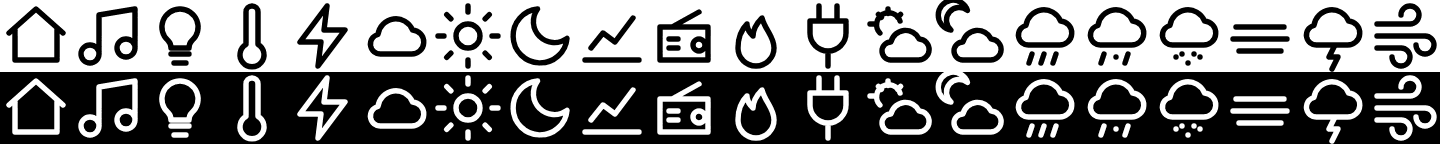
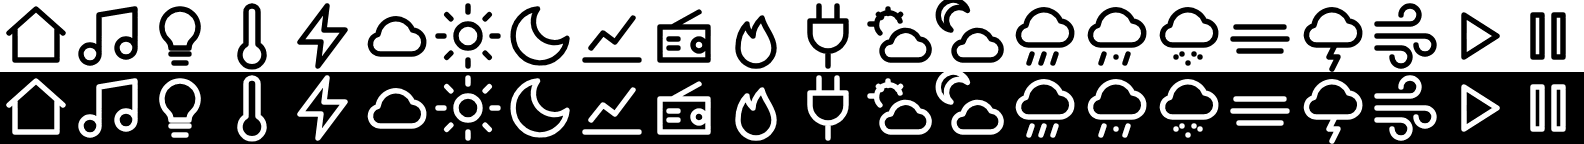
kindle: music tab, scene state and in-place updates
Speakers get play, pause and volume. Scenes show the state they report.
Presses change only what differs, and the page is sized for the real panel.

diff --git a/web/kindle.js b/web/kindle.js
@@ -1,0 +1,60 @@
+// Presses a control without loading a new page, then changes only what differs,
+// so the e-ink panel need not redraw the whole screen. Without this file the forms still work.
+(function () {
+  if (!window.XMLHttpRequest || !document.implementation || !document.implementation.createHTMLDocument) { return; }
+  var busy = false;
+
+  function sync(now, next) {
+    var i, a;
+    if (now.nodeType !== next.nodeType || now.nodeName !== next.nodeName) {
+      now.parentNode.replaceChild(document.importNode(next, true), now);
+    } else if (now.nodeType === 3) {
+      if (now.nodeValue !== next.nodeValue) { now.nodeValue = next.nodeValue; }
+    } else if (now.nodeType === 1) {
+      for (i = now.attributes.length - 1; i >= 0; i--) {
+        if (!next.hasAttribute(now.attributes[i].name)) { now.removeAttribute(now.attributes[i].name); }
+      }
+      for (i = 0; i < next.attributes.length; i++) {
+        a = next.attributes[i];
+        if (now.getAttribute(a.name) !== a.value) { now.setAttribute(a.name, a.value); }
+      }
+      if (now.childNodes.length !== next.childNodes.length) {
+        now.innerHTML = next.innerHTML;
+      } else {
+        for (i = 0; i < now.childNodes.length; i++) { sync(now.childNodes[i], next.childNodes[i]); }
+      }
+    }
+  }
+
+  function show(html) {
+    var body = /<body[^>]*>([\s\S]*)<\/body>/.exec(html), doc = document.implementation.createHTMLDocument('');
+    if (!body) { return false; }
+    doc.body.innerHTML = body[1];
+    // Signed out: the answer is the pairing page.
+    if (!doc.body.querySelector('.head')) { return false; }
+    sync(document.body, doc.body);
+    return true;
+  }
+
+  document.addEventListener('submit', function (ev) {
+    var form = ev.target, xhr = new XMLHttpRequest(), fields = [], i, f;
+    ev.preventDefault();
+    if (busy) { return; }
+    busy = true;
+    for (i = 0; i < form.elements.length; i++) {
+      f = form.elements[i];
+      if (f.name) { fields.push(encodeURIComponent(f.name) + '=' + encodeURIComponent(f.value)); }
+    }
+    xhr.open('POST', form.getAttribute('action'), true);
+    xhr.setRequestHeader('Content-Type', 'application/x-www-form-urlencoded');
+    xhr.onreadystatechange = function () {
+      var shown = false;
+      if (xhr.readyState !== 4) { return; }
+      busy = false;
+      try { shown = xhr.status === 200 && show(xhr.responseText); } catch (e) { shown = false; }
+      // Reloading is a plain GET, so it can never press the control a second time.
+      if (!shown) { window.location.reload(); }
+    };
+    xhr.send(fields.join('&'));
+  }, false);
+}());

diff --git a/src/kindle.rs b/src/kindle.rs
@@ -34,6 +34,8 @@ struct Item {
     class: String,
     /// `None` for a scene, which has no state to show.
     on: Option<bool>,
+    /// Pressing runs it, even when it reports a state it cannot be switched to.
+    runs: bool,
     /// A live value beside the state. Left out of the fingerprint, or a drifting reading would void every tap.
     detail: Option<String>,
 }
@@ -52,6 +54,17 @@ fn detail(e: &Entity, on: Option<bool>) -> Option<String> {
     number(e, "dim").filter(|_| on == Some(true)).map(|d| format!("{:.0} %", d * 100.0))
 }
 
+/// What a control shows and whether pressing runs it. A Homey group can report
+/// "on" when any of its lights is, while only its button can be pressed.
+fn control(e: &Entity) -> Option<(Option<bool>, bool)> {
+    let onoff = e.capabilities.get("onoff");
+    if onoff.is_some_and(|c| c.settable) {
+        return Some((onoff.map(|c| c.value == json!(true)), false));
+    }
+    e.capabilities.get("button").filter(|c| c.settable)?;
+    Some((onoff.map(|c| c.value == json!(true)), true))
+}
+
 fn items(app: &App, device: &Device) -> Vec<Item> {
     let pages = device.pages.iter().flat_map(|p| p.items.iter()).filter(|i| !i.starts_with("card:"));
     let mut seen = std::collections::HashSet::new();
@@ -60,12 +73,8 @@ fn items(app: &App, device: &Device) -> Vec<Item> {
         if !CONTROLLABLE.contains(&e.class.as_str()) {
             return None;
         }
-        let on = match (e.capabilities.get("onoff"), e.capabilities.get("button")) {
-            (Some(c), _) if c.settable => Some(c.value == json!(true)),
-            (_, Some(c)) if c.settable => None,
-            _ => return None,
-        };
-        Some(Item { id: id.clone(), name: device.names.get(id).unwrap_or(&e.name).clone(), class: e.class.clone(), on, detail: detail(&e, on) })
+        let (on, runs) = control(&e)?;
+        Some(Item { id: id.clone(), name: device.names.get(id).unwrap_or(&e.name).clone(), class: e.class.clone(), on, runs, detail: detail(&e, on) })
     }).collect()
 }
 
@@ -184,7 +193,7 @@ fn temperatures(app: &App, device: &Device) -> (Option<String>, Option<String>) 
 }
 
 fn press_item(app: &App, item: &Item) -> Result<(), String> {
-    let (capability, value) = item.on.map_or(("button", json!(true)), |on| ("onoff", json!(!on)));
+    let (capability, value) = if item.runs { ("button", json!(true)) } else { ("onoff", json!(item.on != Some(true))) };
     app.registry.set(&item.id, capability, &value)
 }
 
@@ -192,7 +201,7 @@ fn press_item(app: &App, item: &Item) -> Result<(), String> {
 
 const SCREEN_COOKIE: &str = "oldpad_kindle";
 const PAIR_COOKIE: &str = "oldpad_kindle_pair";
-const PAGE_CSP: &str = "default-src 'none'; style-src 'self'; img-src 'self'; form-action 'self'; frame-ancestors 'none'; base-uri 'none'";
+const PAGE_CSP: &str = "default-src 'none'; style-src 'self'; img-src 'self'; script-src 'self'; connect-src 'self'; form-action 'self'; frame-ancestors 'none'; base-uri 'none'";
 /// Long enough to see a change, rare enough to spare a reader's battery.
 const PAGE_REFRESH: u32 = 300;
 const PAIR_REFRESH: u32 = 5;
@@ -202,13 +211,15 @@ const PAGE_BUTTONS: usize = COLUMNS * 4;
 const MAX_BOXES: usize = COLUMNS * 2;
 // Tables, not flex or grid: the Kindle's browser is an old WebKit.
 const MENU_COLUMNS: usize = 6;
+// A Paperwhite lays out at its full 1072 px, and its browser counts some height it hides, hence the zoom and the menu lifted 28 px.
 /// One picture, so a page costs the reader's Wi-Fi one request: a black row, then a white one for what is on.
 const ICON_SHEET: &[u8] = include_bytes!("../web/kindle-icons.png");
 /// In the order they stand in the sheet. Drawn at twice the size they are shown, for the sharper panel.
-const ICONS: [&str; 20] = ["home", "music", "bulb", "thermo", "bolt", "cloud", "sun", "moon", "chart", "radio", "flame", "plug", "partly", "moonpartly", "rain", "sleet", "snow", "fog", "thunder", "wind"];
+const ICONS: [&str; 22] = ["home", "music", "bulb", "thermo", "bolt", "cloud", "sun", "moon", "chart", "radio", "flame", "plug", "partly", "moonpartly", "rain", "sleet", "snow", "fog", "thunder", "wind", "play", "pause"];
 const ICON_SIZE: usize = 36;
+const PAGE_JS: &str = include_str!("../web/kindle.js");
 const CSS: &str = "html{height:100%}body{height:100%;margin:0;padding:12px 14px;-webkit-box-sizing:border-box;box-sizing:border-box;background:#fff;color:#000;font-family:sans-serif;font-size:20px;line-height:1.2}\
-.shell{position:relative;min-height:100%;-webkit-box-sizing:border-box;box-sizing:border-box}.r1{padding-bottom:84px}.r2{padding-bottom:158px}.r3{padding-bottom:232px}\
+.shell{position:relative;min-height:100%;-webkit-box-sizing:border-box;box-sizing:border-box}.r1{padding-bottom:112px}.r2{padding-bottom:186px}.r3{padding-bottom:260px}\
 h1{font-size:34px;line-height:40px;margin:0}p{margin:8px 6px}form{margin:0}\
 table{width:100%;border-collapse:separate;border-spacing:6px;table-layout:fixed}td{padding:0;vertical-align:top}\
 .head{border-spacing:0;border-bottom:3px solid #000;margin-bottom:6px;padding:0 6px 6px}.head td{vertical-align:middle}.pager{width:190px;text-align:right;font-size:18px;white-space:nowrap}\
@@ -220,10 +231,14 @@ table{width:100%;border-collapse:separate;border-spacing:6px;table-layout:fixed}
 button{display:block;width:100%;height:104px;padding:6px 10px;border:2px solid #000;-webkit-border-radius:10px;border-radius:10px;-webkit-appearance:none;background:#fff;color:#000;font-family:sans-serif;text-align:left;overflow:hidden}\
 button.on{background:#000;color:#fff}button .ic{float:left}button span{float:right;font-size:15px;line-height:36px;white-space:nowrap}\
 button b{display:block;clear:both;max-height:44px;overflow:hidden;font-size:18px;line-height:22px;word-wrap:break-word}\
-.menu{position:absolute;left:0;right:0;bottom:0;display:table;table-layout:fixed;width:100%;border-top:2px solid #000;border-spacing:4px;background:#fff}.menu div{display:table-row}\
+.menu{position:absolute;left:0;right:0;bottom:28px;display:table;table-layout:fixed;width:100%;border-top:2px solid #000;border-spacing:4px;background:#fff}.menu div{display:table-row}\
 .menu a{display:table-cell;height:62px;vertical-align:middle;padding:0 2px;-webkit-border-radius:10px;border-radius:10px;color:#000;font-size:15px;font-weight:bold;text-align:center;text-decoration:none;overflow:hidden;word-wrap:break-word}\
 .menu a.on{background:#000;color:#fff}.menu .ic{display:block;margin:0 auto 1px}\
+@media (min-width:1000px){body{zoom:1.2}}\
 @media (orientation:landscape){.shell{padding-bottom:0}.menu{position:static;float:left;display:block;width:112px;border-top:0;border-right:2px solid #000;padding-right:6px}.menu div{display:block}.menu a{display:block;height:auto;padding:6px 2px;margin-bottom:4px}.main{margin-left:130px}}\
+.spk{height:146px;padding:10px 12px;border:2px solid #000;-webkit-border-radius:10px;border-radius:10px;overflow:hidden}.spk.on{background:#000;color:#fff}\
+.spk small{display:block;font-size:17px;line-height:22px;white-space:nowrap;overflow:hidden}.spk b{display:block;height:28px;font-size:22px;line-height:28px;white-space:nowrap;overflow:hidden}.spk>span{display:block;height:20px;font-size:15px;line-height:20px;white-space:nowrap;overflow:hidden}\
+.ctl{margin-top:8px;border-spacing:4px 0}.ctl td{vertical-align:middle}.ctl button{height:64px;padding:0;text-align:center;font-size:30px;font-weight:bold}.ctl button .ic{float:none;display:block;margin:0 auto}.spk.on button{background:#000;color:#fff;border-color:#fff}.vol{text-align:center;font-size:19px;font-weight:bold}\
 .notice{border:2px solid #000;border-left-width:10px;padding:8px 12px}.empty{padding:48px 12px;text-align:center}\
 .center{max-width:560px;margin:0 auto;padding-top:24px;text-align:center}.center h1{margin-bottom:8px}.qr{display:block;width:400px;max-width:100%;margin:16px auto}\
 .pin{margin:12px 0 4px}.code{display:inline-block;margin:0;padding:6px 20px;border:2px solid #000;-webkit-border-radius:10px;border-radius:10px;font-size:52px;font-weight:bold;letter-spacing:6px}\
@@ -240,10 +255,12 @@ pub fn route(app: &App, req: &Request, s: &[&str]) -> Response {
     match (req.method.as_str(), s) {
         ("GET", ["kindle"]) => show(app, req),
         ("GET", ["kindle", "style.css"]) => Response::new(200, "text/css; charset=utf-8", stylesheet()).header("Cache-Control", "no-cache"),
+        ("GET", ["kindle", "app.js"]) => Response::new(200, "text/javascript; charset=utf-8", PAGE_JS).header("Cache-Control", "no-cache"),
         ("GET", ["kindle", "icons.png"]) => Response::new(200, "image/png", ICON_SHEET).header("Cache-Control", "public, max-age=86400"),
         ("GET", ["kindle", "qr", file]) => pairing_qr(app, req, file),
         ("POST", ["kindle", "pair"]) => start_pairing(app),
         ("POST", ["kindle", "press"]) => press(app, req),
+        ("POST", ["kindle", "speaker"]) => speaker_action(app, req),
         _ => Response::error(404, "Not found"),
     }
 }
@@ -398,10 +415,10 @@ fn view_items(app: &App, device: &Device, view: &str) -> Vec<Item> {
 
 /// The tablet's pages that work without a live connection, then the admin's own. Empty ones stay out.
 fn menu(app: &App, device: &Device, nb: bool) -> Vec<(String, String, String)> {
-    let built_in = [("home", "Hjem", "Home", "home"), ("lights", "Lys", "Lights", "bulb"), ("climate", "Klima", "Climate", "thermo"), ("flows", "Scener", "Scenes", "bolt"), ("weather", "Vær", "Weather", "cloud")];
+    let built_in = [("home", "Hjem", "Home", "home"), ("music", "Musikk", "Music", "music"), ("lights", "Lys", "Lights", "bulb"), ("climate", "Klima", "Climate", "thermo"), ("flows", "Scener", "Scenes", "bolt"), ("weather", "Vær", "Weather", "cloud")];
     let fixed = built_in.iter().map(|(id, no, en, ic)| (id.to_string(), if nb { no } else { en }.to_string(), ic.to_string()));
     let own = device.pages.iter().enumerate().map(|(i, p)| (format!("p{i}"), p.name.clone(), p.icon.clone()));
-    fixed.chain(own).filter(|(id, ..)| id == "home" || !view_items(app, device, id).is_empty() || !info_boxes(app, device, id, nb).is_empty()).collect()
+    fixed.chain(own).filter(|(id, ..)| id == "home" || (id == "music" && !speakers(app, device).is_empty()) || !view_items(app, device, id).is_empty() || !info_boxes(app, device, id, nb).is_empty()).collect()
 }
 
 fn menu_html(entries: &[(String, String, String)], view: &str) -> String {
@@ -441,7 +458,9 @@ fn dashboard(app: &App, req: &Request, device: &Device, nb: bool) -> Response {
     if let Some(n) = notice {
         body += &format!("<p class=\"notice\">{n}</p>");
     }
-    if shown.is_empty() && view != "weather" {
+    if view == "music" {
+        body += &grid(speakers(app, device).iter().map(|e| speaker_card(app, device, e, &token, nb)).collect(), 2, "speakers");
+    } else if shown.is_empty() && view != "weather" {
         body += if nb { "<p class=\"empty\">Ingen knapper er valgt for denne skjermen.</p>" } else { "<p class=\"empty\">No controls are set up for this screen.</p>" };
     }
     body += &grid(shown.iter().enumerate().map(|(i, item)| {
@@ -463,6 +482,7 @@ fn dashboard(app: &App, req: &Request, device: &Device, nb: bool) -> Response {
     }).collect(), COLUMNS, "buttons");
     let rows = entries.len().div_ceil(entries.len().div_ceil(3).max(MENU_COLUMNS));
     let body = if entries.len() > 1 { format!("<div class=\"shell r{rows}\">{}<div class=\"main\">{body}</div></div>", menu_html(&entries, view)) } else { body };
+    let body = format!("{body}<script src=\"/kindle/app.js\"></script>");
     html(&device.name, PAGE_REFRESH, &escape_xml(&link(view, page)), &body)
 }
 
@@ -629,6 +649,71 @@ fn info_boxes(app: &App, device: &Device, view: &str, nb: bool) -> Vec<Info> {
     // Home keeps its buttons on the first screen; a page of its own can spend more.
     boxes.truncate(if view == "home" { MAX_BOXES } else { MAX_BOXES * 2 });
     boxes
+}
+
+/// The screen's speakers, its music panel first, as on the tablet.
+fn speakers(app: &App, device: &Device) -> Vec<Entity> {
+    let pages = device.pages.iter().flat_map(|p| p.items.iter());
+    let mut seen = std::collections::HashSet::new();
+    device.panels.speaker.iter().chain(device.tiles.iter()).chain(device.more.iter()).chain(pages)
+        .filter(|id| seen.insert(id.as_str()))
+        .filter_map(|id| app.registry.entity(id))
+        .filter(|e| e.class == "speaker" && e.capabilities.get("speaker_playing").is_some_and(|c| c.settable))
+        .collect()
+}
+
+/// What a group plays comes from its leader, which need not be on this screen.
+fn speaker_lead(app: &App, e: &Entity) -> Entity {
+    let group = e.capabilities.get("speaker_group").and_then(|c| c.value.as_str());
+    let id = group.and_then(|g| e.id.split_once(':').map(|(integration, _)| format!("{integration}:{g}")));
+    id.and_then(|id| app.registry.entity(&id)).unwrap_or_else(|| e.clone())
+}
+
+fn speaker_card(app: &App, device: &Device, e: &Entity, token: &str, nb: bool) -> String {
+    let lead = speaker_lead(app, e);
+    let text = |c: &str| lead.capabilities.get(c).and_then(|c| c.value.as_str()).filter(|s| !s.is_empty()).map(escape_xml);
+    let playing = lead.capabilities.get("speaker_playing").is_some_and(|c| c.value == json!(true));
+    let control = |action: &str, label: &str, inner: &str| format!(
+        "<td><form method=\"post\" action=\"/kindle/speaker\"><input type=\"hidden\" name=\"token\" value=\"{token}\"><input type=\"hidden\" name=\"id\" value=\"{}\"><input type=\"hidden\" name=\"action\" value=\"{action}\"><button type=\"submit\" aria-label=\"{label}\">{inner}</button></form></td>",
+        escape_xml(&e.id)
+    );
+    let mut controls = if playing { control("pause", "Pause", &icon("pause")) } else { control("play", if nb { "Spill" } else { "Play" }, &icon("play")) };
+    if let Some(v) = number(e, "volume_set").filter(|_| e.capabilities["volume_set"].settable) {
+        controls += &control("down", if nb { "Lavere volum" } else { "Volume down" }, "&minus;");
+        controls += &format!("<td class=\"vol\">{:.0} %</td>", v * 100.0);
+        controls += &control("up", if nb { "Høyere volum" } else { "Volume up" }, "+");
+    }
+    format!(
+        "<div class=\"spk{}\"><small>{}</small><b>{}</b><span>{}</span><table class=\"ctl\"><tr>{controls}</tr></table></div>",
+        if playing { " on" } else { "" },
+        escape_xml(device.names.get(&e.id).unwrap_or(&e.name)),
+        text("speaker_track").unwrap_or_else(|| if nb { "Ingenting spilles" } else { "Nothing playing" }.to_string()),
+        text("speaker_artist").unwrap_or_default(),
+    )
+}
+
+/// Volume moves from its live value, and play and pause say which they mean, so an old page cannot do the opposite.
+fn speaker_action(app: &App, req: &Request) -> Response {
+    const VOLUME_STEP: f64 = 0.05;
+    let Some(device) = screen_device(app, req) else { return redirect("/kindle") };
+    let form = parse_query(std::str::from_utf8(&req.body).unwrap_or(""));
+    let field = |k: &str| form.get(k).map_or("", String::as_str);
+    if !constant_eq(field("token"), &form_token(&device)) {
+        return Response::error(403, "Bad form token");
+    }
+    let back = link("music", 0);
+    let Some(e) = speakers(app, &device).into_iter().find(|e| e.id == field("id")) else {
+        return redirect(&format!("{back}&notice=stale"));
+    };
+    let volume = |step: f64| number(&e, "volume_set").map(|v| ((v + step).clamp(0.0, 1.0) * 100.0).round() / 100.0).ok_or("no volume".to_string());
+    let done = match field("action") {
+        "play" => app.registry.set(&e.id, "speaker_playing", &json!(true)),
+        "pause" => app.registry.set(&e.id, "speaker_playing", &json!(false)),
+        "down" => volume(-VOLUME_STEP).and_then(|v| app.registry.set(&e.id, "volume_set", &json!(v))),
+        "up" => volume(VOLUME_STEP).and_then(|v| app.registry.set(&e.id, "volume_set", &json!(v))),
+        _ => return Response::error(400, "Unknown action"),
+    };
+    redirect(&if done.is_ok() { back } else { format!("{back}&notice=failed") })
 }
 
 fn press(app: &App, req: &Request) -> Response {
@@ -882,7 +967,7 @@ mod tests {
     use super::*;
 
     fn item(id: &str, on: Option<bool>) -> Item {
-        Item { id: id.into(), name: id.into(), class: "light".into(), on, detail: None }
+        Item { id: id.into(), name: id.into(), class: "light".into(), on, runs: on.is_none(), detail: None }
     }
 
     #[test]
@@ -941,6 +1026,17 @@ mod tests {
         assert_eq!(weather_icon("clearsky_night"), "moon");
         assert_eq!(weather_icon("lightsleetshowers_day"), "sleet");
         assert_eq!(weather_icon("heavyrainandthunder"), "thunder");
+    }
+
+    #[test]
+    fn a_group_shows_its_state_and_is_run() {
+        use crate::integrations::Capability;
+        let entity = |caps: Vec<(&str, Capability)>| Entity { id: "x".into(), name: "x".into(), zone: "z".into(), class: "button".into(), capabilities: caps.into_iter().map(|(k, c)| (k.to_string(), c)).collect() };
+        let (on, off, press) = (Capability::new(json!(true), false), Capability::new(json!(false), true), Capability::new(Value::Null, true));
+        assert_eq!(control(&entity(vec![("onoff", on.clone()), ("button", press.clone())])), Some((Some(true), true)), "read-only state, run by its button");
+        assert_eq!(control(&entity(vec![("onoff", off.clone()), ("button", press.clone())])), Some((Some(false), false)), "a real switch is switched");
+        assert_eq!(control(&entity(vec![("button", press)])), Some((None, true)));
+        assert_eq!(control(&entity(vec![("onoff", on)])), None, "nothing to press");
     }
 
     #[test]

diff --git a/src/e2e.rs b/src/e2e.rs
@@ -205,7 +205,7 @@ fn phone_and_tablet_end_to_end() {
     let (s, kindle_device) = phone.call("POST", &format!("/api/admin/pair/{kindle_code}"), Some(json!({ "name": "Kindle", "pin": kindle_pin })));
     assert_eq!(s, 200);
     let kindle_id = kindle_device["id"].as_str().unwrap().to_string();
-    assert_eq!(phone.call("PUT", &format!("/api/admin/devices/{kindle_id}"), Some(json!({ "tiles": [lamp, heater], "more": [plug], "panels": { "outdoor": outdoor }, "pages": [{ "id": "p1", "name": "Evening", "icon": "moon", "items": [night] }] }))).0, 200);
+    assert_eq!(phone.call("PUT", &format!("/api/admin/devices/{kindle_id}"), Some(json!({ "tiles": [lamp, heater], "more": [plug, speaker], "panels": { "outdoor": outdoor }, "pages": [{ "id": "p1", "name": "Evening", "icon": "moon", "items": [night] }] }))).0, 200);
     let paired = web("GET", "/kindle", &pending, None);
     assert_eq!(paired.status, 303);
     let screen = cookie_of(&paired);
@@ -237,12 +237,25 @@ fn phone_and_tablet_end_to_end() {
     let menu = text(&web("GET", "/kindle", &screen, None));
     assert!(menu.contains("class=\"menu\"") && menu.contains("view=lights") && menu.contains("view=p0"));
     assert!(menu.contains("i-bulb") && web("GET", "/kindle", &screen, None).headers["content-security-policy"].contains("img-src 'self'"));
+    assert!(menu.contains("src=\"/kindle/app.js\"") && web("GET", "/kindle", &screen, None).headers["content-security-policy"].contains("script-src 'self'"));
+    assert_eq!(web("GET", "/kindle/app.js", "", None).status, 200);
     let sheet = web("GET", "/kindle/icons.png", "", None);
     assert_eq!((sheet.status, sheet.headers["content-type"].as_str()), (200, "image/png"));
     assert!(text(&web("GET", "/kindle/style.css", "", None)).contains(".on .i-bulb"));
     let scenes = text(&web("GET", "/kindle?view=flows", &screen, None));
     assert!(scenes.contains("Good night") && !scenes.contains("Coffee maker<"), "a view shows only its own");
     assert!(text(&web("GET", "/kindle?view=%0d%0aevil", &screen, None)).contains("Coffee maker<"), "an unknown view is home");
+    let music = text(&web("GET", "/kindle?view=music", &screen, None));
+    assert!(menu.contains("view=music") && music.contains("Radio One") && music.contains("class=\"spk on\"") && music.contains("28 %"));
+    let speak = |id: &str, action: &str, token: &str| web("POST", "/kindle/speaker", &screen, Some(&format!("token={token}&id={id}&action={action}")));
+    assert_eq!(speak(&speaker, "pause", "wrong").status, 403);
+    assert_eq!(speak(&bath, "pause", &form_token).headers["location"], "/kindle?view=music&page=0&notice=stale", "only this screen's speakers");
+    assert_eq!(speak(&speaker, "pause", &form_token).headers["location"], "/kindle?view=music&page=0");
+    assert!(!text(&web("GET", "/kindle?view=music", &screen, None)).contains("class=\"spk on\""));
+    assert_eq!(speak(&speaker, "play", &form_token).status, 303);
+    assert_eq!(speak(&speaker, "up", &form_token).status, 303);
+    assert!(text(&web("GET", "/kindle?view=music", &screen, None)).contains("33 %"));
+    assert_eq!(speak(&speaker, "down", &form_token).status, 303);
     let stale = format!("token={form_token}&layout=old&view=flows&page=0&item=0");
     assert_eq!(web("POST", "/kindle/press", &screen, Some(&stale)).headers["location"], "/kindle?view=flows&page=0&notice=stale", "a press stays on its view");
     assert_eq!(lamp_on(&mut tablet), true);

diff --git a/tests/es5.rs b/tests/es5.rs
@@ -80,6 +80,13 @@ fn tablet_js_is_es5() {
 }
 
 #[test]
+fn kindle_js_is_es5() {
+    let src = std::fs::read_to_string(concat!(env!("CARGO_MANIFEST_DIR"), "/web/kindle.js")).unwrap();
+    let found = problems(&src);
+    assert!(found.is_empty(), "kindle.js uses syntax old browsers do not support:\n{}", found.join("\n"));
+}
+
+#[test]
 fn the_check_catches_modern_code() {
     assert!(!problems("var f = (a) => a;").is_empty());
     assert!(!problems("const x = 1;").is_empty());

diff --git a/docs/design.md b/docs/design.md
@@ -132,13 +132,14 @@ music, doorbell and its camera), further entities for the menu pages, and up to
 
 ## Kindle in its own browser (no jailbreak)
 
-Open `/kindle` in the Kindle's Experimental Browser. It is plain HTML with no JavaScript or live connection, and refreshes every five minutes while the Kindle is awake.
+Open `/kindle` in the Kindle's Experimental Browser. It is plain HTML with no live connection, and works without JavaScript. A small script sends presses in the background and changes only what differs, to spare the panel a full redraw. The page refreshes every five minutes while the Kindle is awake.
 
 - Pairing uses the normal code and PIN, with a QR code for the address. The screen then keeps an `HttpOnly` cookie scoped to `/kindle`.
 - Each press is a form with a token derived from the screen, and a fingerprint of what the page showed. A stale page presses nothing and asks for another tap.
 - It shows the same controls as the e-ink picture below, four across and sixteen to a page, each with its live value. Locks, alarms and unclassified devices stay off it.
 - Info boxes above the buttons show indoor, outdoor, wind, the forecast and the screen's sensors, at most eight.
-- A menu lists Home, Lights, Climate, Scenes, Weather and the screen's own pages, leaving out empty ones. It sits at the bottom in portrait and on the left in landscape.
+- Music shows each of the screen's speakers with what it plays, play or pause, and volume in 5 % steps.
+- A menu lists Home, Music, Lights, Climate, Scenes, Weather and the screen's own pages, leaving out empty ones. It sits at the bottom in portrait and on the left in landscape.
 - Icons come from one grayscale sheet, `web/kindle-icons.png`, drawn from the tablet's icon paths. Its columns follow `ICONS` in `src/kindle.rs`.
 - The Kindle still goes to sleep by itself, so this is a remote you wake, not an always-on display.
 
